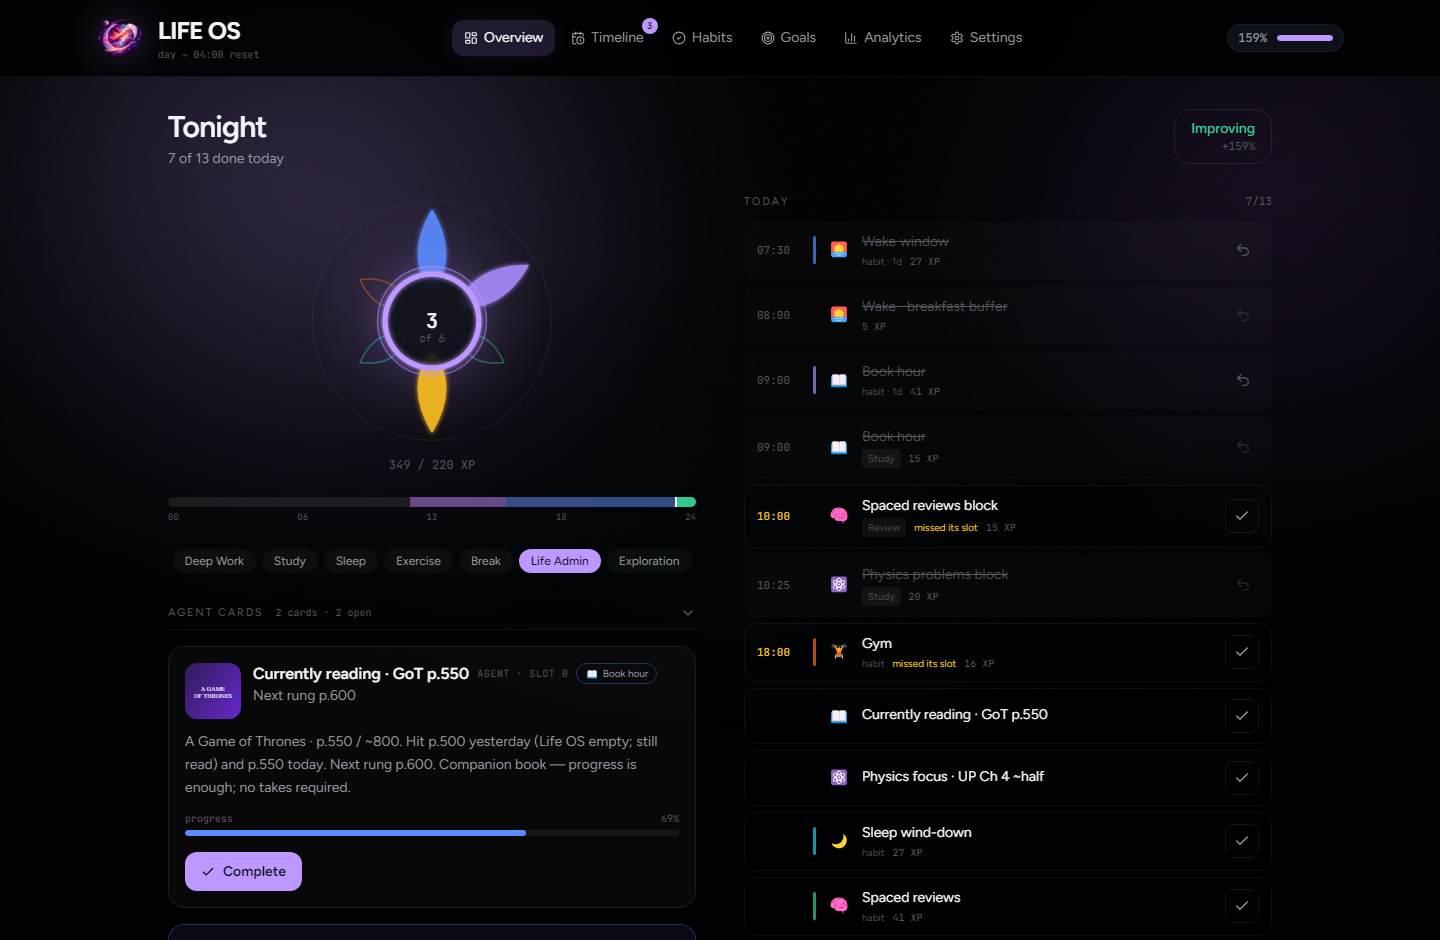
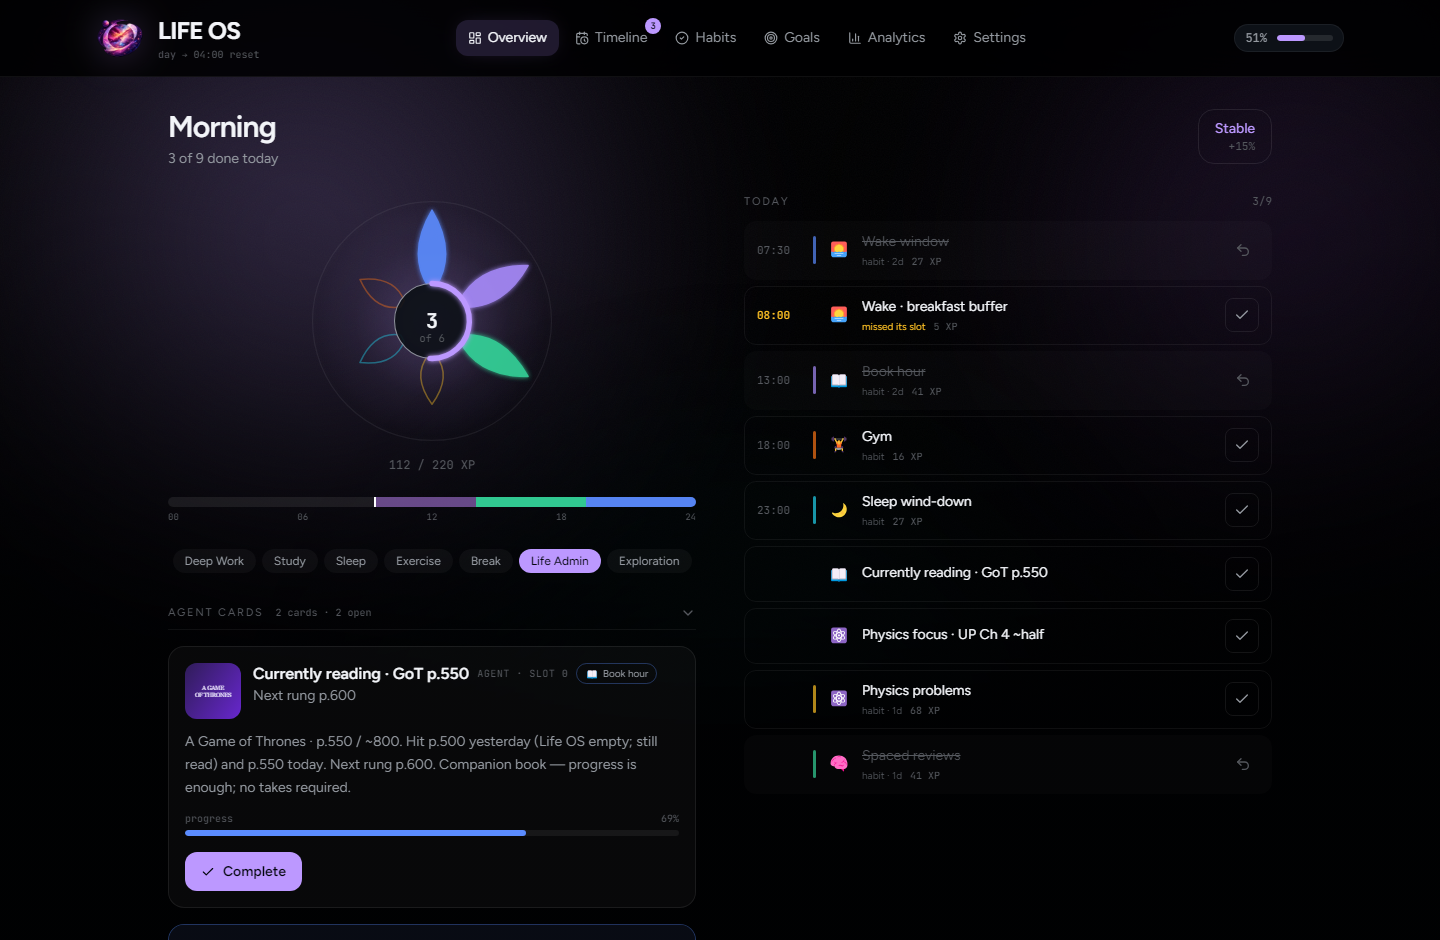
The screenshot was advertising the bug, and the chip was punishing mornings
The README shot was taken against a copy of a real instance without cleaning
it, so it showed "Book hour" twice — the habit and the companion task an agent
made before habits could carry a time. The front page of the project was
demonstrating the exact duplication the last three commits removed.

The fix is in the copy, not in anyone's data: the demo now dismisses the
companion tasks, gives the habits times so the day has a shape, styles the two
pinned cards, and closes the morning's items. Nine rows, none of them the same
thing twice.

The shot also read "Stable -108%", which turned out not to be a screenshot
problem at all.

`improvementPct` compares today's efficiency with yesterday's *total*, so a day
in progress is measured against a day that finished. At breakfast you have done
almost nothing and yesterday is whole, so it reports something near -100% —
every morning, to everyone. That is an artefact of the clock presented as a
verdict, and it breaks the rule this app is built on: never tell someone they
are failing at something they have not had the chance to do yet.

The front page now prorates yesterday by how far through the life-day it is, so
the question is "am I ahead of where I was at this time yesterday" — which is
what the number always implied. The first tenth of the day reports flat, because
both sides are small enough there that the difference is noise and dressing
noise as a verdict is the same mistake in a smaller font. At the end of the day
[…]

diff --git a/packages/shared/src/xp.test.ts b/packages/shared/src/xp.test.ts
@@ -1,0 +1,62 @@
+import { strict as assert } from "node:assert";
+import { describe, it } from "node:test";
+import { improvementPct, paceAdjustedImprovementPct } from "./xp.js";
+
+/**
+ * Comparing today with yesterday, without lying about it in either direction.
+ */
+
+describe("the raw delta", () => {
+  it("is the difference in efficiency, in points", () => {
+    assert.equal(improvementPct(80, 100), -20);
+    assert.equal(improvementPct(120, 100), 20);
+  });
+});
+
+describe("pace-adjusted improvement", () => {
+  /*
+   * The raw delta compares a day in progress with a day that finished, so at
+   * breakfast it reported roughly -100% every morning. That is an artefact of
+   * the clock dressed up as a verdict, and it broke the rule the whole app is
+   * built on: never tell someone they are failing at something they have not
+   * had the chance to do yet.
+   */
+  it("does not call a fresh morning a collapse", () => {
+    // 8% of the way through the day, nothing done, yesterday finished at 160%.
+    assert.equal(improvementPct(0, 160), -160, "the behaviour being fixed");
+    assert.equal(
+      paceAdjustedImprovementPct(0, 160, 0.08),
+      0,
+      "the first slice of the day reports flat",
+    );
+  });
+
+  it("compares against where yesterday had got to by now", () => {
+    // Half way through: today at 60%, yesterday finished at 100%, so yesterday
+    // was around 50% by this point and today is a little ahead.
+    assert.equal(paceAdjustedImprovementPct(60, 100, 0.5), 10);
+  });
+
+  it("still says so when today really is behind", () => {
+    // Not a rule against bad news — a rule against inventing it.
+    assert.equal(paceAdjustedImprovementPct(20, 100, 0.5), -30);
+  });
+
+  it("converges on the honest total at the end of the day", () => {
+    assert.equal(
+      paceAdjustedImprovementPct(80, 100, 1),
+      improvementPct(80, 100),
+    );
+  });
+
+  it("clamps a fraction outside 0–1 rather than extrapolating", () => {
+    assert.equal(paceAdjustedImprovementPct(80, 100, 5), -20);
+    assert.equal(paceAdjustedImprovementPct(80, 100, -3), 0);
+  });
+
+  it("has nothing to compare against on a first day, and says nothing", () => {
+    // No yesterday means no baseline. Zero is the honest answer, not a triumph.
+    assert.equal(paceAdjustedImprovementPct(40, 0, 0.5), 40);
+    assert.equal(paceAdjustedImprovementPct(0, 0, 0.5), 0);
+  });
+});

diff --git a/packages/shared/src/xp.ts b/packages/shared/src/xp.ts
@@ -134,6 +134,36 @@ export function improvementPct(
   return Math.round((todayEfficiency - yesterdayEfficiency) * 10) / 10;
 }
 
+/**
+ * The same comparison, but against where yesterday *had got to* by this hour.
+ *
+ * The raw delta compares a day in progress with a day that finished, so at
+ * breakfast it reports something near -100% every single morning — you have
+ * done almost nothing yet, and yesterday's total is whole. That is not a
+ * measurement, it is an artefact of the clock, and it broke the one rule this
+ * app is built around: never tell someone they are failing at a thing they
+ * have not had the chance to do.
+ *
+ * Yesterday is prorated by how far through the life-day it is, so the question
+ * becomes "am I ahead of where I was at this time yesterday" — which is what
+ * the number on the front page has always implied. At the end of the day the
+ * fraction reaches 1 and it converges on the honest total-vs-total delta.
+ *
+ * The first slice of the day is reported flat. A tenth of the way in, both
+ * sides are small enough that the difference is noise, and dressing noise up
+ * as a verdict is the same mistake in a smaller font.
+ */
+export function paceAdjustedImprovementPct(
+  todayEfficiency: number,
+  yesterdayEfficiency: number,
+  dayFraction: number,
+): number {
+  const f = Math.max(0, Math.min(1, dayFraction));
+  if (f < 0.1) return 0;
+  const yesterdaySoFar = yesterdayEfficiency * f;
+  return Math.round((todayEfficiency - yesterdaySoFar) * 10) / 10;
+}
+
 export function computeImprovementPulse(
   recentConsistency: number[],
   recentXp: number[],

diff --git a/apps/api/src/services/dashboard.ts b/apps/api/src/services/dashboard.ts
@@ -3,7 +3,7 @@ import type { LifeOsDb } from "@life-os/db";
 import * as schema from "@life-os/db";
 import {
   efficiencyPct,
-  improvementPct,
+  paceAdjustedImprovementPct,
   type DashboardToday,
 } from "@life-os/shared";
 import {
@@ -141,9 +141,22 @@ export function getDashboard(db: LifeOsDb): DashboardToday {
   const dailyXpTarget = config.dailyXpTarget;
   const eff = efficiencyPct(dailyXp, dailyXpTarget);
   const yEff = vsYesterday.efficiency.yesterday;
-  const imp = improvementPct(eff, yEff);
-
   const agenda = getAgenda(db);
+
+  /*
+   * Against where yesterday had got to by this hour, not against its total.
+   * The raw delta compares a day in progress with a day that finished, so it
+   * greeted the user with roughly -100% every morning — an artefact of the
+   * clock presented as a verdict.
+   */
+  const nowMs = Date.now();
+  const dayStart = Date.parse(agenda.lifeDay.lifeDayStart);
+  const dayEnd = Date.parse(agenda.lifeDay.lifeDayEnd);
+  const dayFraction =
+    dayEnd > dayStart
+      ? Math.max(0, Math.min(1, (nowMs - dayStart) / (dayEnd - dayStart)))
+      : 1;
+  const imp = paceAdjustedImprovementPct(eff, yEff, dayFraction);
 
   /**
    * The planned shape of the day, from the agenda rather than from tasks alone.
